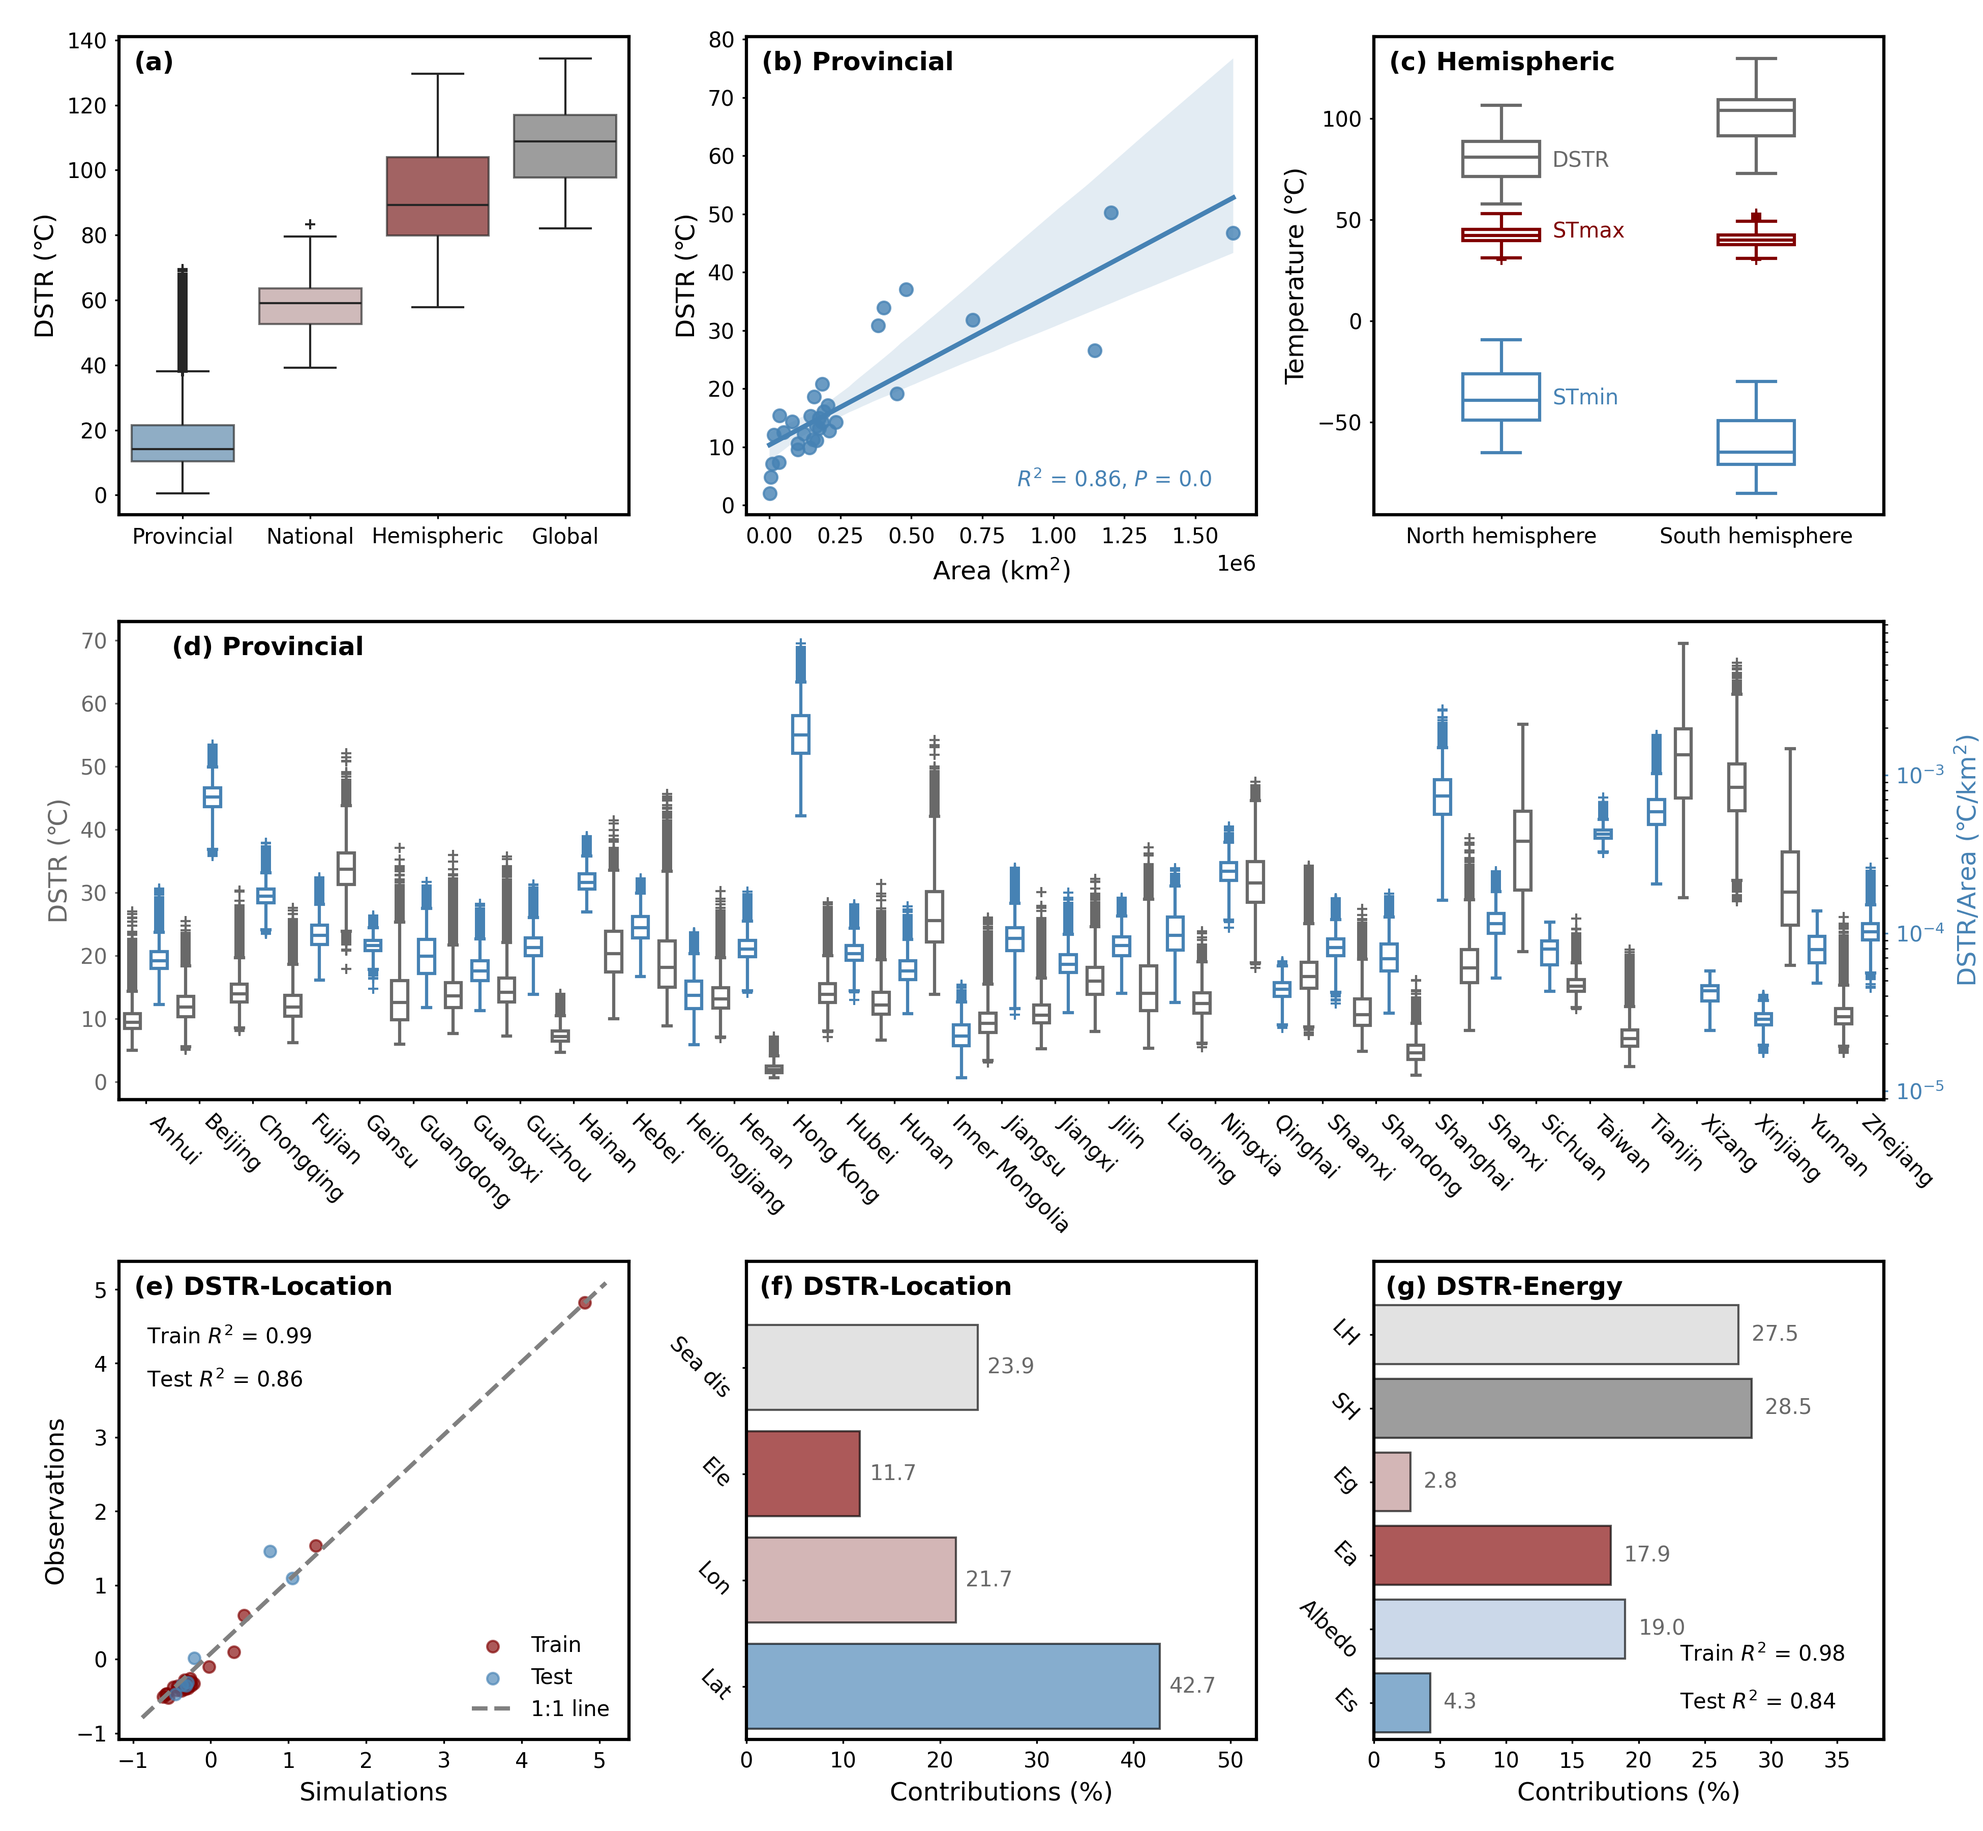
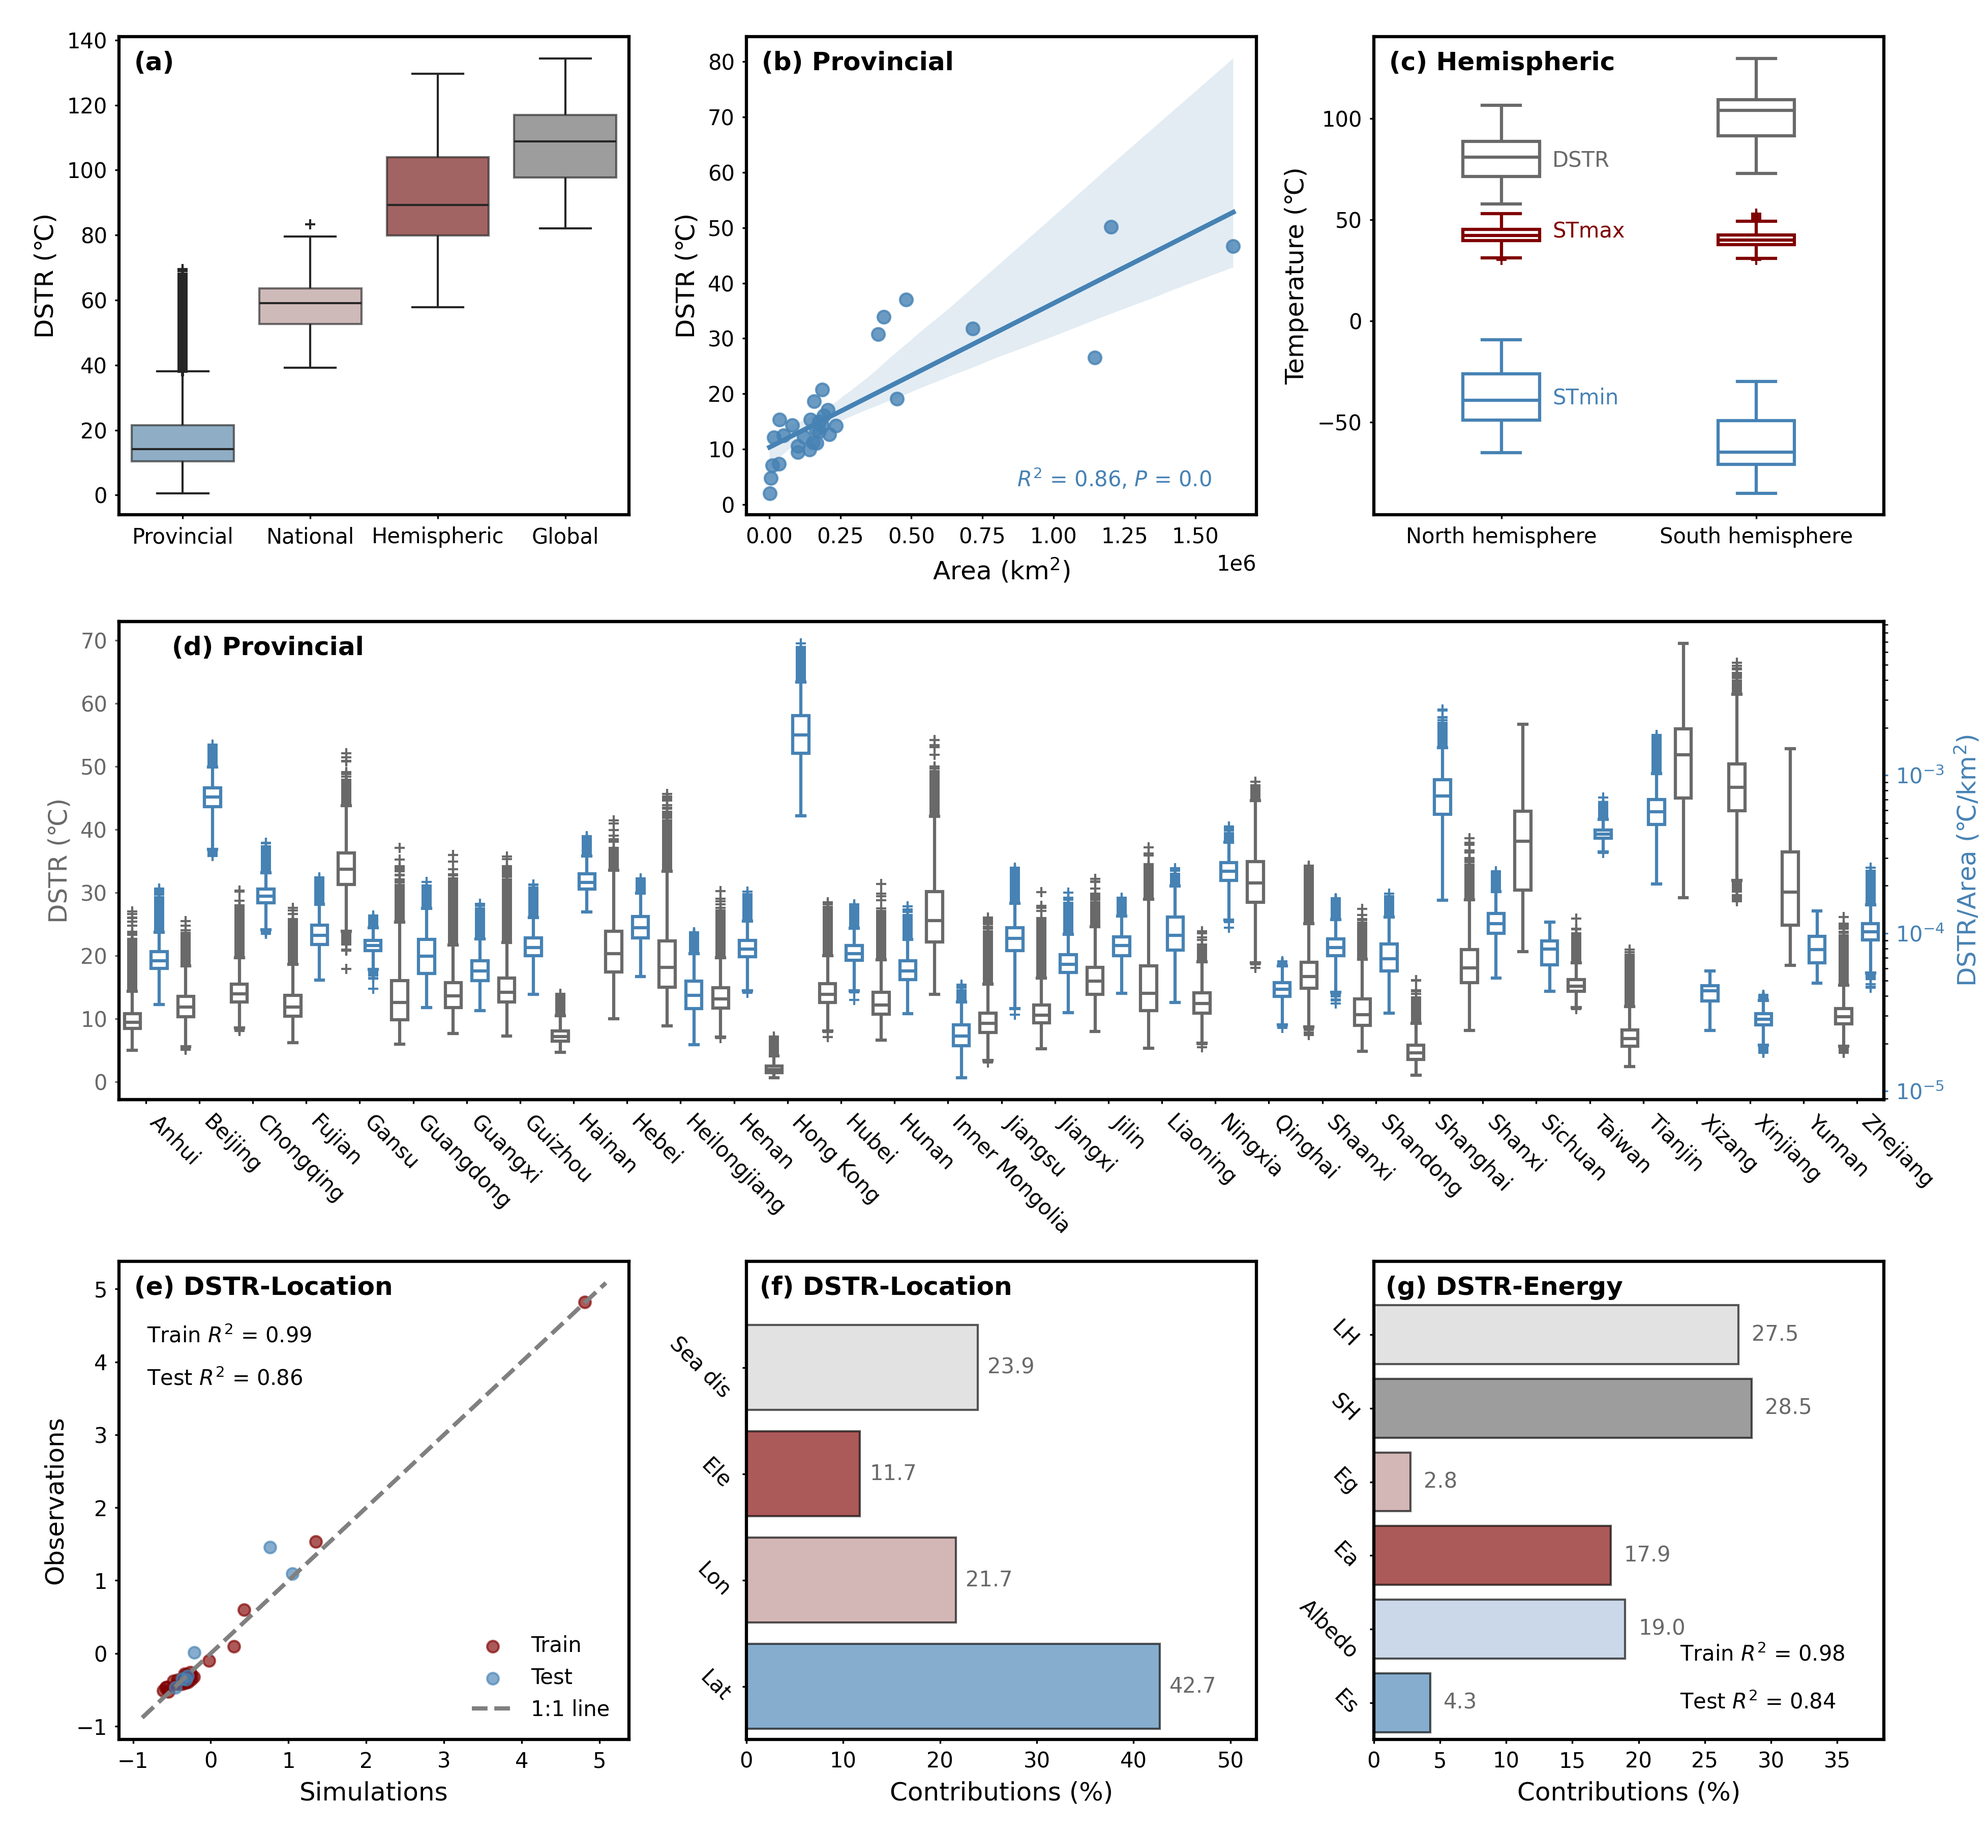
revise 1:1 plot

Changed region(s): [[0.3723, 0.0933, 0.6205, 0.2489], [0.0621, 0.9022, 0.1241, 0.9333]]

diff --git a/code/plot_fig1_DSTR_different_scales_driver.py b/code/plot_fig1_DSTR_different_scales_driver.py
@@ -443,7 +443,7 @@ def ridgeReg(df, outpath, out_key, ftsz_num, lab1, axname, plot_pred, plot_con, 
         ax.scatter(ridge_test, y_test, s=sz, c='steelblue', marker='o', alpha=alp, label='Test')
         xlim = ax.get_xlim()
         ylim = ax.get_ylim()
-        ax.plot([xlim[0], xlim[1]], [ylim[0], ylim[1]], color='grey', linestyle='--', linewidth=2, label='1:1 line')
+        ax.plot([xlim[0], xlim[1]], [xlim[0], xlim[1]], color='grey', linestyle='--', linewidth=2, label='1:1 line')
         textname1 = 'Train $R^2$ = ' + str(round(R2_train, 2))
         textname2 = 'Test $R^2$ = ' + str(round(R2_test, 2))
 
